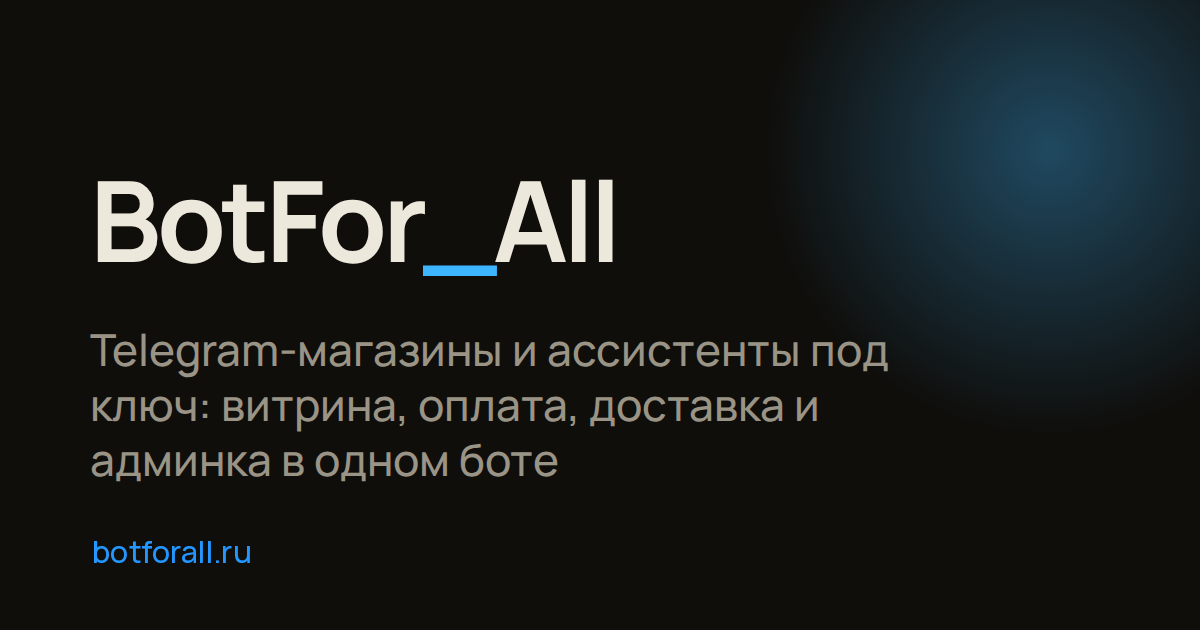
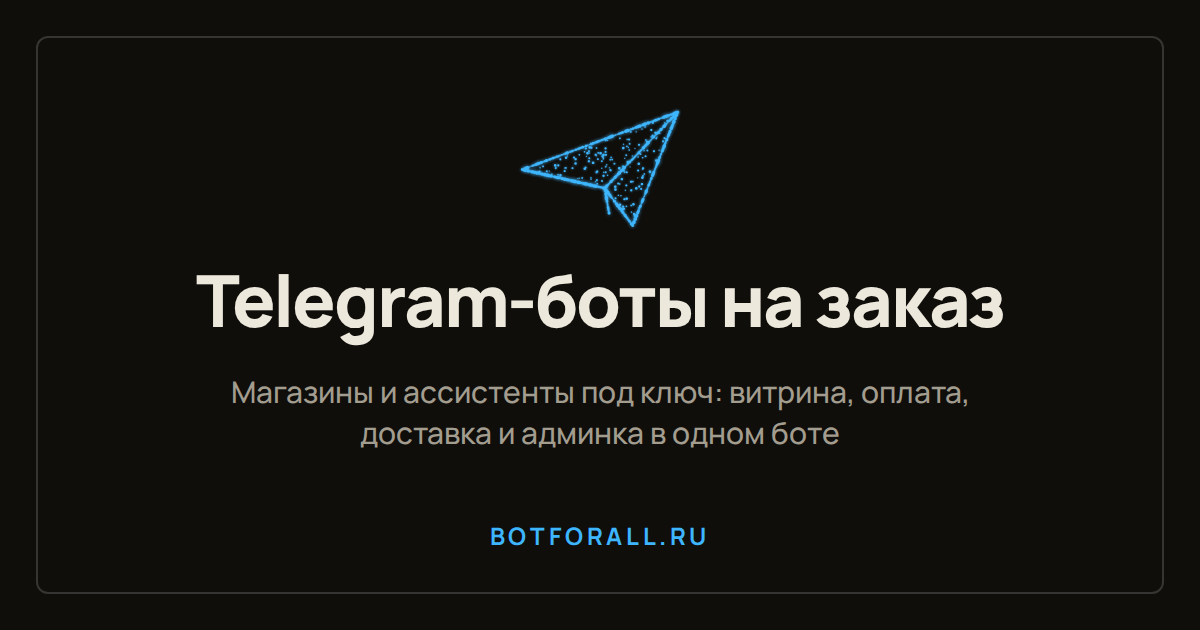
Превью: картинка с самолётиком из частиц

diff --git a/index.html b/index.html
@@ -16,7 +16,7 @@
     <meta property="og:title" content="Telegram-боты на заказ" />
     <meta property="og:description" content="Telegram-магазины и ассистенты под ключ: витрина, оплата, доставка и админка в одном боте." />
     <meta property="og:url" content="https://botforall.ru/" />
-    <meta property="og:image" content="https://botforall.ru/og.png?v=5" />
+    <meta property="og:image" content="https://botforall.ru/og.png?v=6" />
     <meta property="og:image:width" content="1200" />
     <meta property="og:image:height" content="630" />
     <meta name="twitter:card" content="summary_large_image" />
